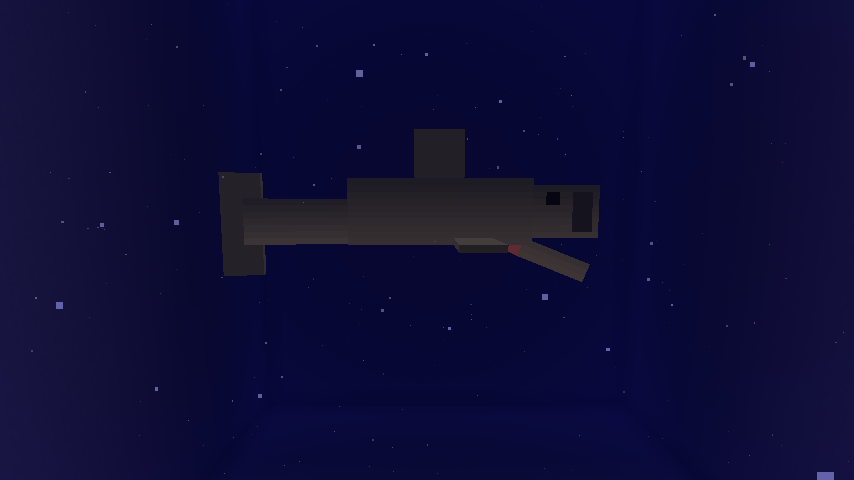
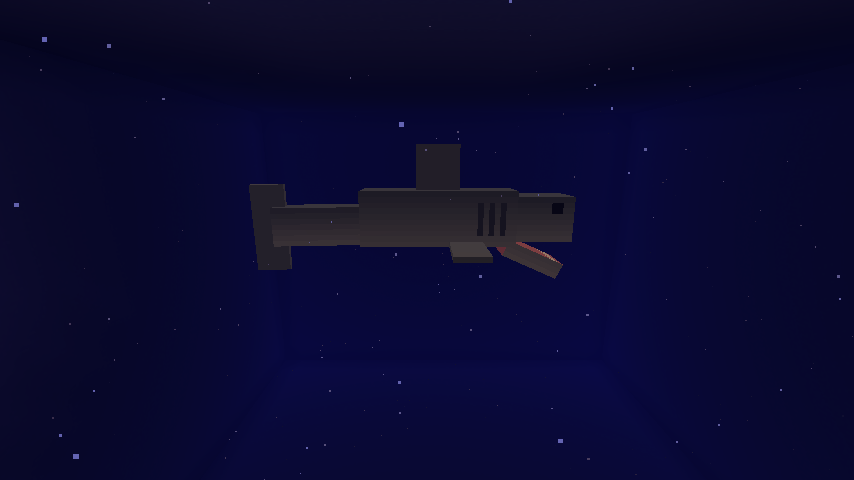
models: shark gills moved to body + jointed lurker lure; harpoon docs regen
Megalodon: the painted gill slab sat on the head in front of the eye (the
east face's UV runs opposite the west's, so the same offsets put the east
eye at the back of the head with the gill ahead of it — decoded both
side-face U-directions with marker renders). Gills are now three slits on
each body flank just behind the head joint, and the east eye sits at the
snout like the west one. Texture-only; no model boxes changed.

Abyssal lurker: the lure was one straight 16-px stalk pitched flat-forward.
It is now a three-segment jointed stalk (lure_stalk -> lure_mid -> lure_tip)
that rises near-vertically and bends progressively forward/down (cumulative
~2.1 rad) so the bulb dangles ahead of the gape; setAngles sways only the
base. Painter gains per-segment UVs and the emissive tip-glow follows the
tip segment.

Site mob shots re-rendered on the deep-water set for both changed models,
and the harpoon icon + recipe card regenerated for the new sprite (8d56c2e).

diff --git a/src/main/java/me/tinyclaw/oceanstarter/client/AbyssalLurkerModel.java b/src/main/java/me/tinyclaw/oceanstarter/client/AbyssalLurkerModel.java
@@ -92,15 +92,22 @@ public class AbyssalLurkerModel extends SinglePartEntityModel<AbyssalLurker> {
 				ModelPartBuilder.create().uv(0, 80).cuboid(-11.0F, 0.0F, -16.0F, 22.0F, 7.0F, 16.0F),
 				ModelTransform.of(0.0F, -2.0F, -10.0F, 0.7F, 0.0F, 0.0F));
 
-		// Anglerfish lure: a thin stalk arcing off the top-front of the head, bearing
-		// the glowing esca bulb at its tip. The stalk pivots at the head top-front and
-		// tilts forward (setAngles) so the bulb hangs out over the gape. The bulb is a
-		// child of the stalk so it swings with it. uv(94,26) stalk / uv(104,26) bulb.
+		// Anglerfish lure: a JOINTED stalk off the top-front of the head — the base
+		// rises near-vertically, then each segment bends further forward so the arc
+		// ends pointing forward/down with the glowing esca bulb hung out over the
+		// gape. The bends are baked into the mid/tip transforms; setAngles sways only
+		// the base. uv(94,26)/(104,36)/(114,36) segments, uv(104,26) bulb.
 		ModelPartData lureStalk = head.addChild("lure_stalk",
-				ModelPartBuilder.create().uv(94, 26).cuboid(-1.0F, -18.0F, -1.0F, 2.0F, 16.0F, 2.0F),
+				ModelPartBuilder.create().uv(94, 26).cuboid(-1.0F, -6.0F, -1.0F, 2.0F, 6.0F, 2.0F),
 				ModelTransform.pivot(0.0F, -10.0F, -14.0F));
-		lureStalk.addChild("lure_bulb",
-				ModelPartBuilder.create().uv(104, 26).cuboid(-2.0F, -22.0F, -2.0F, 4.0F, 4.0F, 4.0F),
+		ModelPartData lureMid = lureStalk.addChild("lure_mid",
+				ModelPartBuilder.create().uv(104, 36).cuboid(-1.0F, -6.0F, -1.0F, 2.0F, 6.0F, 2.0F),
+				ModelTransform.of(0.0F, -6.0F, 0.0F, 0.72F, 0.0F, 0.0F));
+		ModelPartData lureTip = lureMid.addChild("lure_tip",
+				ModelPartBuilder.create().uv(114, 36).cuboid(-1.0F, -5.0F, -1.0F, 2.0F, 5.0F, 2.0F),
+				ModelTransform.of(0.0F, -6.0F, 0.0F, 0.95F, 0.0F, 0.0F));
+		lureTip.addChild("lure_bulb",
+				ModelPartBuilder.create().uv(104, 26).cuboid(-2.0F, -9.0F, -2.0F, 4.0F, 4.0F, 4.0F),
 				ModelTransform.pivot(0.0F, 0.0F, 0.0F));
 
 		// Tail — tapering rear section behind the body. ~12 wide x 16 tall x 12 long.
@@ -143,9 +150,9 @@ public class AbyssalLurkerModel extends SinglePartEntityModel<AbyssalLurker> {
 		this.tail.yaw = MathHelper.cos(animationProgress * 0.1F) * 0.2F;
 		// Lazy chomp on the lower jaw (oscillates around the wide-open pose).
 		this.lowerJaw.pitch = 0.7F + MathHelper.cos(animationProgress * 0.12F) * 0.15F;
-		// The lure arcs FORWARD so the bulb dangles out over the gape/face. The stalk
-		// extends up (-Y), so a POSITIVE pitch tips its tip toward -Z (forward); the
-		// old -0.9 wrongly swung it BACK over the body (pindyj: "wrong direction").
-		this.lureStalk.pitch = 2.0F + MathHelper.cos(animationProgress * 0.08F) * 0.12F;
+		// Sway only the BASE segment around its mostly-upright pose; the fixed bends in
+		// lure_mid/lure_tip carry the arc forward/down (cumulative ~2.1 rad at the tip)
+		// so the bulb dangles out ahead of the gape. Positive pitch = toward -Z (forward).
+		this.lureStalk.pitch = 0.45F + MathHelper.cos(animationProgress * 0.08F) * 0.12F;
 	}
 }

diff --git a/paint_abyssal_lurker.py b/paint_abyssal_lurker.py
@@ -55,7 +55,11 @@ PARTS = {
     'body':       (0, 0, 26, 30, 20),
     'head':       (0, 51, 24, 12, 16),
     'lower_jaw':  (0, 80, 22, 7, 16),
-    'lure_stalk': (94, 26, 2, 16, 2),
+    # Jointed lure stalk: three segments (base/mid/tip) matching the model's
+    # lure_stalk -> lure_mid -> lure_tip chain; the bulb hangs off the tip.
+    'lure_stalk': (94, 26, 2, 6, 2),
+    'lure_mid':   (104, 36, 2, 6, 2),
+    'lure_tip':   (114, 36, 2, 5, 2),
     'lure_bulb':  (104, 26, 4, 4, 4),
     'tail':       (80, 51, 12, 16, 12),
     'caudal_fin': (78, 82, 1, 18, 9),
@@ -142,9 +146,10 @@ def paint_body():
         spike = 3 if i % 2 == 0 else 2
         rect(dx + i, dy + dh - spike, 1, spike, TEETH)
 
-    # ---- LURE_STALK ----
-    for k in ('down', 'up', 'north', 'south', 'east', 'west'):
-        rect(*F['lure_stalk'][k], FIN)
+    # ---- LURE_STALK (three jointed segments) ----
+    for seg in ('lure_stalk', 'lure_mid', 'lure_tip'):
+        for k in ('down', 'up', 'north', 'south', 'east', 'west'):
+            rect(*F[seg][k], FIN)
 
     # ---- LURE_BULB ----  pale-blue/white all 6 faces (bright so it reads from far).
     for k in ('down', 'up', 'north', 'south', 'east', 'west'):
@@ -188,10 +193,11 @@ def paint_emissive():
     # LURE BULB — all 6 faces glow.
     for k in ('down', 'up', 'north', 'south', 'east', 'west'):
         rect(*F['lure_bulb'][k], GLOW)
-    # the stalk's tip glows faintly too (top 3 px of each long face) so the glow
-    # reads as bleeding down the esca filament, not a floating cube.
+    # the stalk's TIP SEGMENT glows faintly too (top 3 px of each long face) so the
+    # glow reads as bleeding down the esca filament, not a floating cube. Only the
+    # tip — the base/mid segments stay dark like the body.
     for k in ('north', 'south', 'east', 'west'):
-        x, y, w, h = [int(v) for v in F['lure_stalk'][k]]
+        x, y, w, h = [int(v) for v in F['lure_tip'][k]]
         rect(x, y, w, min(3, h), GLOW)
 
     # EYES — glow them too (anglerfish eyes catch the lure light). Mirror the body
